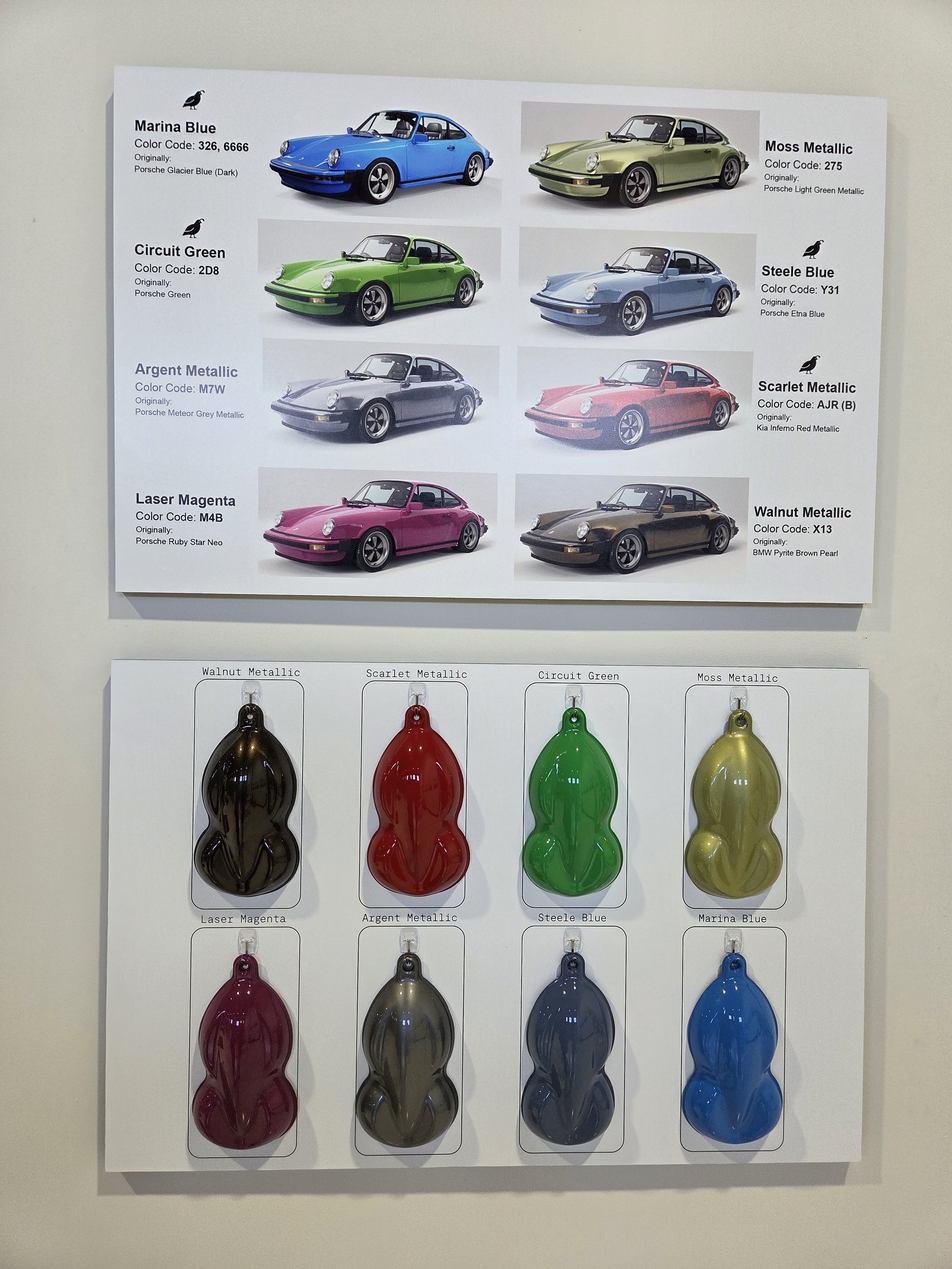
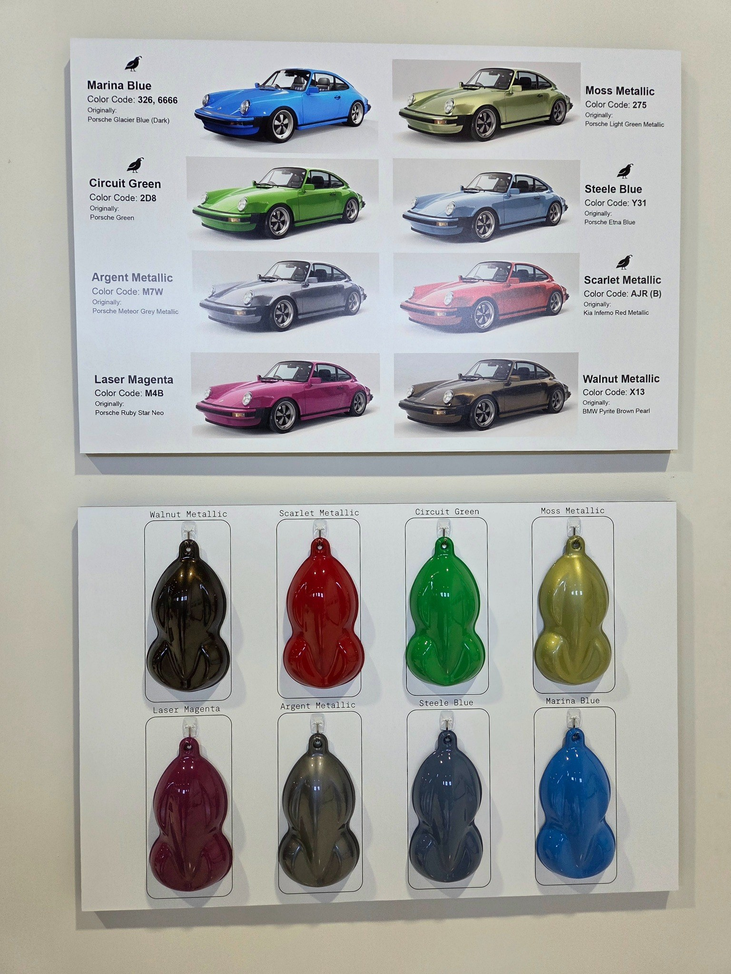
Add files via upload

Changed region(s): [[0.0625, 0.0312, 0.9375, 0.9688], [0.0938, 0.5312, 0.125, 0.8125]]

diff --git a/product-design-leadership.html b/product-design-leadership.html
@@ -233,8 +233,8 @@
         </div>
 
         <div class="image-pair">
-          <figure><img src="ev911-exterior-palette.jpg" alt="EV911 exterior color palette board"><figcaption>Exterior palette development connected rendered vehicle application to physical paint samples.</figcaption></figure>
-          <figure><img src="ev911-cmf-studio.jpg" alt="EV911 CMF boards displayed in Kindred design studio"><figcaption>CMF boards installed in the Design Studio as an ongoing communication and customer-engagement tool.</figcaption></figure>
+          <figure><img src="ev911-exterior-palette.jpg" alt="EV911 exterior color palette with rendered vehicle applications and physical paint samples"><figcaption>Exterior CMF strategy shown as complete vehicle colorways paired directly with the physical paint samples used to evaluate them.</figcaption></figure>
+          <figure><img src="ev911-cmf-studio.jpg" alt="EV911 exterior and interior CMF storyboards displayed together in the Kindred design studio"><figcaption>The exterior palette, Cork interior, and Graphite interior presented together in the Design Studio as one coherent vehicle-level CMF system.</figcaption></figure>
         </div>
       </section>
 
@@ -306,8 +306,6 @@
           <div class="trans-cell"><strong>Process variation</strong><span>Sewing, adhesive, operator and assembly effects</span></div><div class="trans-cell"><strong>Repeatability</strong><span>DFM, tolerances, validation and release gates</span></div>
         </div>
 
-        <div class="image-full"><img src="ev911-assembly-flow.jpg" alt="EV911 assembly and dependency flow"></div>
-        <div class="caption">A separate assembly/dependency view keeps subsystem sequencing and blockers visible as the product moves from design definition into integrated vehicle development.</div>
       </section>
 
       <section class="section">
